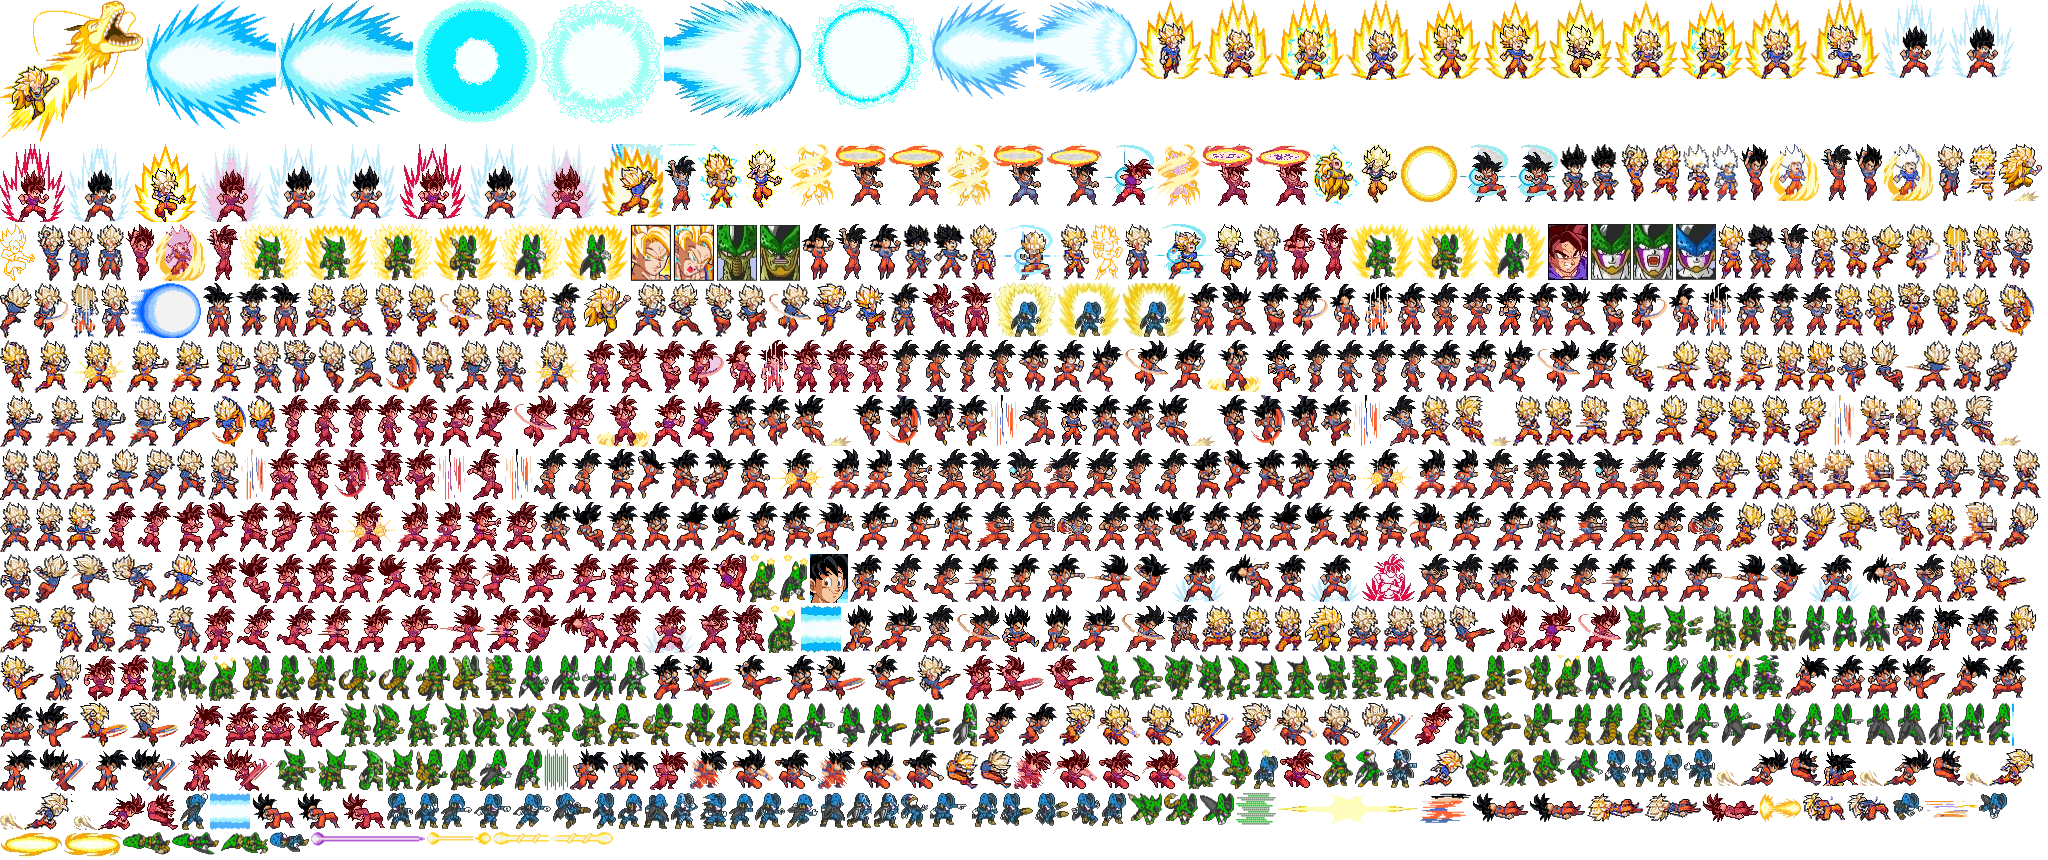
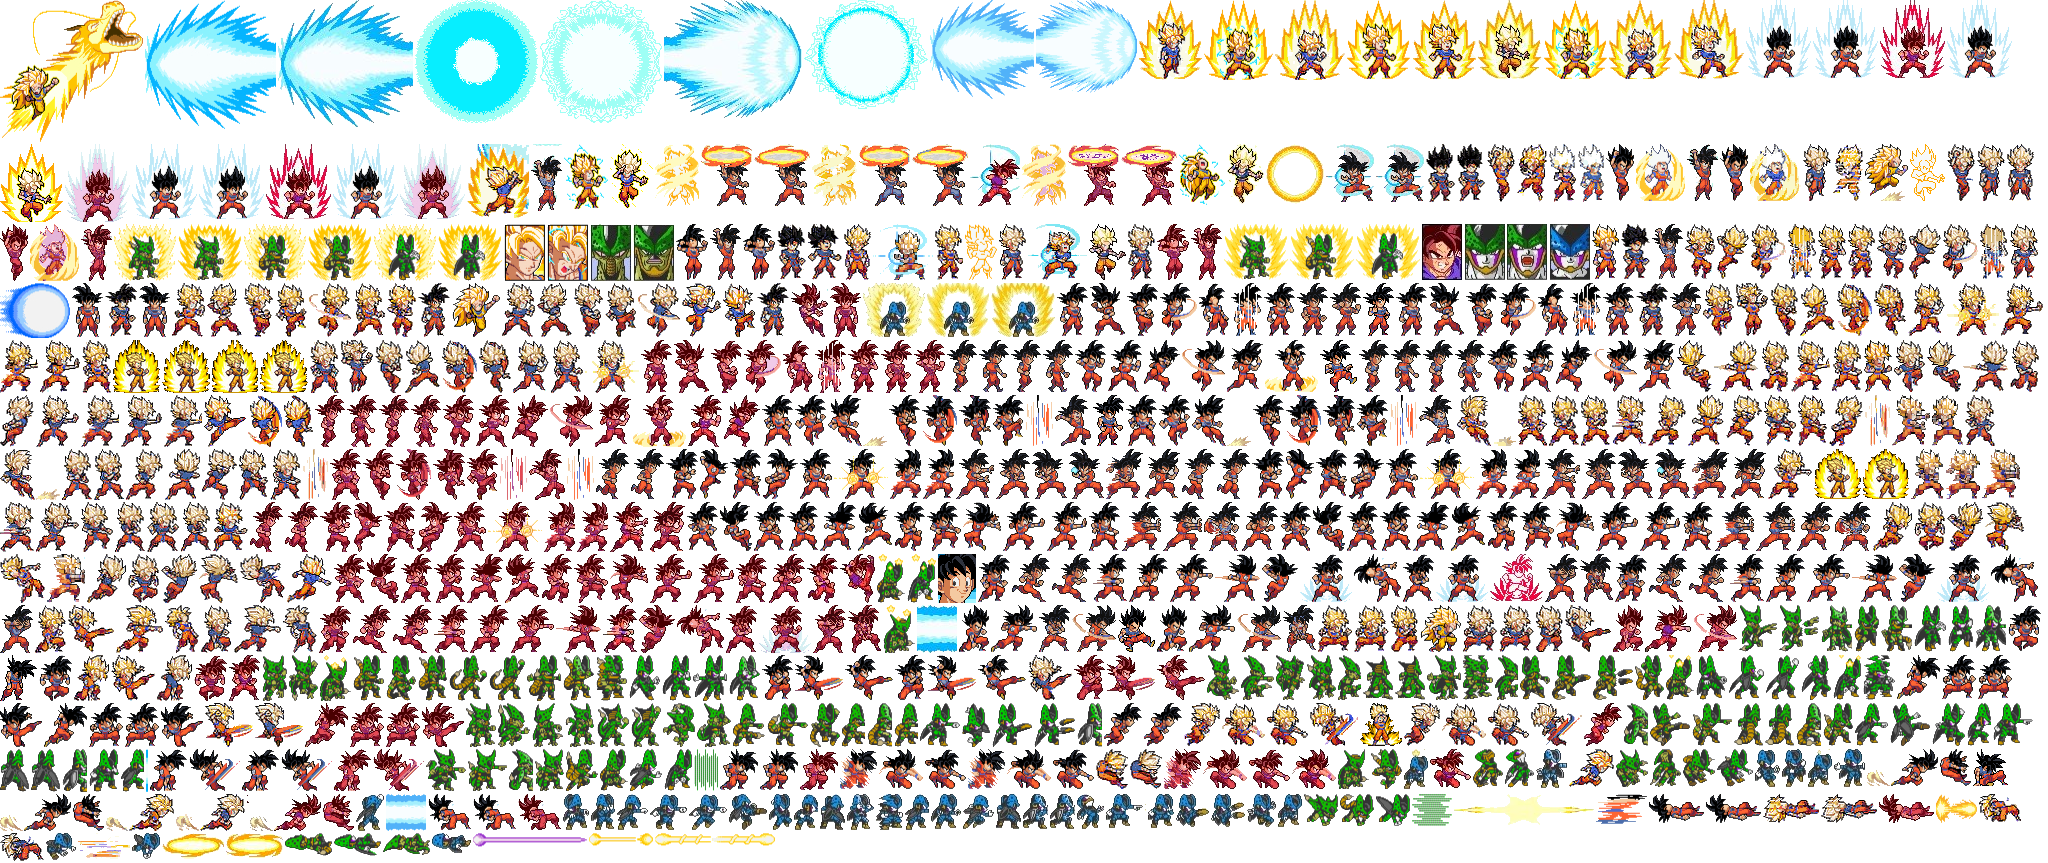
Super Saiyan in his full gi stands and powers up as he did before: the sharp stance from base Goku's sheet, breathing, and the second Super Saiyan sheet's charge (goku-ssj2.png, back from git); moving, guarding and attacks keep the new frames

diff --git a/data.js b/data.js
@@ -87,8 +87,9 @@ const SX_TELE = [SX(6, 15, 43, 53), SX(55, 11, 37, 57), SX(98, 11, 39, 57), SX(1
 const G10 = (x, y, w, h) => ({ sheet: 'goku', rect: [x, y, w, h] });
 const TURN = [null, G10(104, 826, 32, 48), G10(151, 826, 53, 48), G10(214, 799, 65, 75), G10(290, 796, 65, 78), G10(371, 821, 53, 53),
   G10(441, 816, 50, 58), G10(509, 812, 44, 62), G10(574, 795, 63, 79), G10(656, 818, 27, 56)];
-// powering up as a Super Saiyan in his full gi: the stance twice, then the gold flames
-const SX_CHARGE = [SX(6, 196, 35, 54), SX(47, 195, 36, 55), SX(89, 167, 67, 83), SX(162, 163, 74, 87)];
+// powering up as a Super Saiyan in his full gi, from the second Super Saiyan sheet (goku-ssj2.png)
+const SJ = (x, y, w, h) => ({ sheet: 'ssj2', rect: [x, y, w, h], k: 1.25 });
+const SJ_CHARGE = [SJ(12, 585, 42, 43), SJ(65, 577, 47, 50), SJ(125, 574, 47, 53), SJ(189, 574, 48, 53), SJ(247, 577, 46, 50), SJ(307, 574, 46, 53), SJ(371, 574, 48, 53)];
 // which Super Saiyan frame each of base Goku's frames is
 const SSJ_TWIN = {};
 const twins = (ids, row) => ids.forEach((id, i) => { if (id != null) SSJ_TWIN[JSON.stringify(id)] = row[i]; });
@@ -270,14 +271,16 @@ const ssjTable = look => {
     .filter(([, a]) => !a.fr.includes(null)).map(([k, a]) => [k, { ...a, fr: fr(a.fr) }]);
   const t = {
     ...Object.fromEntries(moves),
-    idle: { fr: stance, fps: 7, loop: true },
+    // (in his full gi: the stance he ends his transformation in, base Goku's own sheet, breathing, as it was)
+    idle: look === 'ssj' ? { fr: [TURN[9]], fps: 1, loop: true, breathe: true } : { fr: stance, fps: 7, loop: true },
     dashStop: { fr: fr([SS_IDLE[2]]), fps: 10, loop: false, then: 'idle' },
     walk: { fr: stance, fps: 10, loop: true },
     back: { fr: [...stance].reverse(), fps: 9, loop: true },
     // powering up, as the sheet draws it: the stance twice, then the gold flames looping
-    // (in his full gi, the full-gi sheet's own frames: SX_CHARGE)
-    charge: look === 'ssj' ? { fr: SX_CHARGE, fps: 10, loop: true, loopFrom: 2 } : { fr: fr(SS_CHARGE), fps: 10, loop: true, loopFrom: 2 },
-    chargeEnd: { fr: look === 'ssj' ? [SX_CHARGE[1]] : fr([SS_CHARGE[1]]), fps: 9, loop: false, then: 'idle' },
+    // (in his full gi, as it was: the second Super Saiyan sheet's charge, a small aura at his feet, then
+    // the gold flame flickering round him, drawn 1.25x to match his size)
+    charge: look === 'ssj' ? { fr: SJ_CHARGE, fps: 12, loop: true, loopFrom: 1 } : { fr: fr(SS_CHARGE), fps: 10, loop: true, loopFrom: 2 },
+    chargeEnd: { fr: look === 'ssj' ? [SJ_CHARGE[0]] : fr([SS_CHARGE[1]]), fps: 9, loop: false, then: 'idle' },
     // his Kamehameha: the turn, the swirl gathering in his hands, then the thrust
     // (in his full gi, the sheet's own Kamehameha: see SK_KAME)
     // (with the top torn too: the torn sheet's own looked wrong, so he fires it the full-gi way)

diff --git a/index.html b/index.html
@@ -40,29 +40,29 @@
 <body>
 <svg id="game"></svg>
 <div class="preload">a<b>a</b></div>
-<script src="frames.js?v=171"></script>
-<script src="gfx.js?v=171"></script>
-<script src="goku-forms.js?v=171"></script>
-<script src="data.js?v=171"></script>
-<script src="fx.js?v=171"></script>
-<script src="audio.js?v=171"></script>
-<script src="stage.js?v=171"></script>
+<script src="frames.js?v=172"></script>
+<script src="gfx.js?v=172"></script>
+<script src="goku-forms.js?v=172"></script>
+<script src="data.js?v=172"></script>
+<script src="fx.js?v=172"></script>
+<script src="audio.js?v=172"></script>
+<script src="stage.js?v=172"></script>
 <!-- the game itself, split by system; plain scripts sharing one global scope, so the order matters -->
-<script src="game/core.js?v=171"></script>
-<script src="game/input.js?v=171"></script>
-<script src="game/fighters.js?v=171"></script>
-<script src="game/combat.js?v=171"></script>
-<script src="game/fighter-update.js?v=171"></script>
-<script src="game/player.js?v=171"></script>
-<script src="game/boss-ai.js?v=171"></script>
-<script src="game/projectiles.js?v=171"></script>
-<script src="game/cinematics.js?v=171"></script>
-<script src="game/cutscenes.js?v=171"></script>
-<script src="game/menus.js?v=171"></script>
-<script src="game/results.js?v=171"></script>
-<script src="game/loop.js?v=171"></script>
-<script src="game/render.js?v=171"></script>
-<script src="game/main.js?v=171"></script>
-<script src="net.js?v=171"></script>
+<script src="game/core.js?v=172"></script>
+<script src="game/input.js?v=172"></script>
+<script src="game/fighters.js?v=172"></script>
+<script src="game/combat.js?v=172"></script>
+<script src="game/fighter-update.js?v=172"></script>
+<script src="game/player.js?v=172"></script>
+<script src="game/boss-ai.js?v=172"></script>
+<script src="game/projectiles.js?v=172"></script>
+<script src="game/cinematics.js?v=172"></script>
+<script src="game/cutscenes.js?v=172"></script>
+<script src="game/menus.js?v=172"></script>
+<script src="game/results.js?v=172"></script>
+<script src="game/loop.js?v=172"></script>
+<script src="game/render.js?v=172"></script>
+<script src="game/main.js?v=172"></script>
+<script src="net.js?v=172"></script>
 </body>
 </html>

diff --git a/sheets.js b/sheets.js
@@ -14,6 +14,8 @@ const SHEET_CFG = {
   sk: { src: 'assets/sheets/goku-ssj-kame.png', raw: true },
   // his Instant Transmission and full-gi transformation (tools/ssj-moves.py)
   sx: { src: 'assets/sheets/goku-ssj-moves.png', raw: true, bg: [255, 0, 255], keyed: true },
+  // the second Super Saiyan sheet (his charge in his full gi), on its dark background
+  ssj2: { src: 'assets/sheets/goku-ssj2.png', raw: true, bg: [36, 27, 2] },
   // the torn-gi Super Saiyan sheet itself, for frames used as drawn (the torn transformation)
   ss: { src: 'assets/sheets/goku-ssj-first.png', raw: true },
   // Goku's looks (base, torn gi, Super Saiyan, Kaioken), made by tools/goku-forms.py: frames on a
